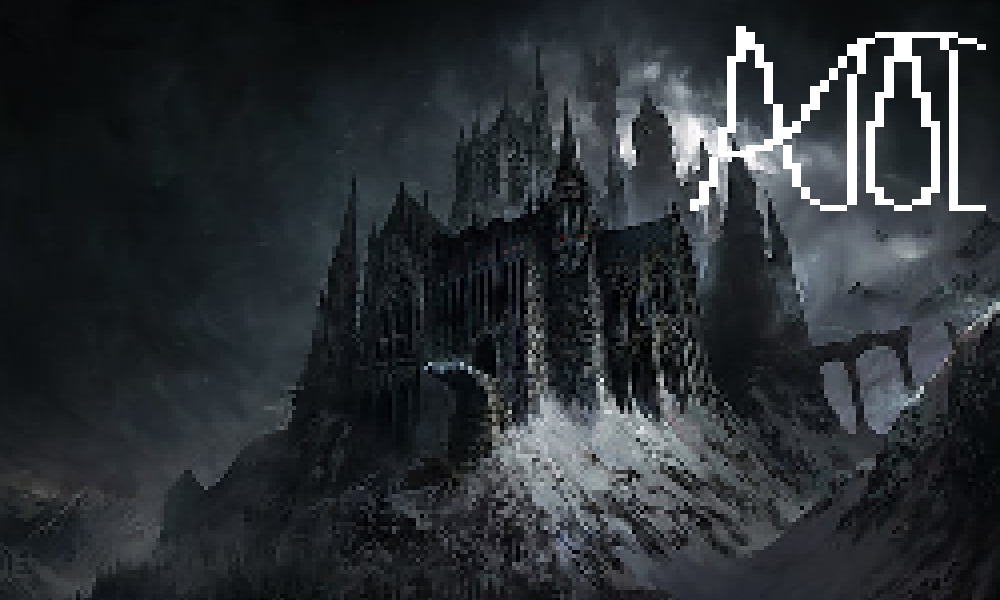
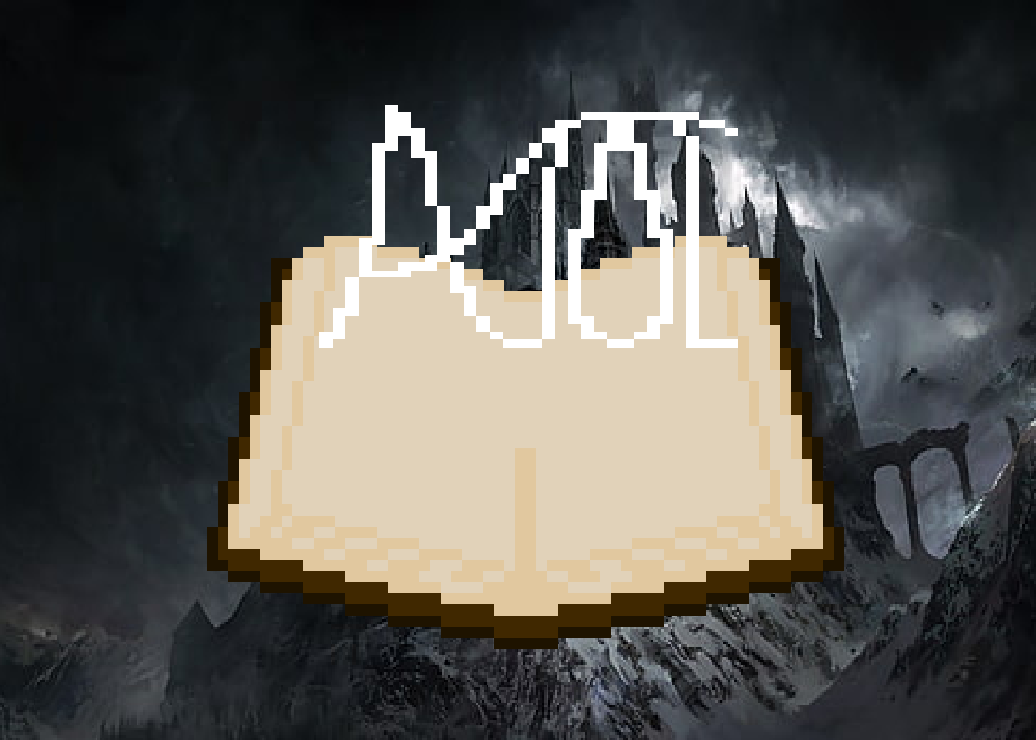
added torch particle preset

diff --git a/code/level.py b/code/level.py
@@ -28,8 +28,8 @@ class Level:
 		self.next_room_triggers = pygame.sprite.Group()  # Level Triggers sprites group
 		self.last_room_triggers = pygame.sprite.Group()  # Level Triggers sprites group
 		self.player_layer = pygame.sprite.GroupSingle()  # Player sprite group
-		self.enemy_layer = pygame.sprite.GroupSingle()  # Enemy sprite group
-		self.projectiles = pygame.sprite.GroupSingle()  # Projectile sprite group
+		self.enemy_layer = pygame.sprite.Group()  # Enemy sprite group
+		self.projectiles = pygame.sprite.Group()  # Projectile sprite group
 
 		# Terrain layout
 		terrain_layout = import_csv_layout(level_data['terrain'])  # Load Terrain layout from CSV
@@ -182,7 +182,7 @@ class Level:
 		# Handle the particles in the level
 		# Torch particles
 		for torch in self.torches.sprites():
-			self.particles.append(Particle(torch.rect.centerx, torch.rect.centery, '', 3, (255, 255, 255), 'torch'))
+			self.particles.append(Particle(torch.rect.centerx, torch.rect.centery, '', 3, (0, 255, 255), 'torch'))
 
 		# Draw and update particles
 		for particle in self.particles:
@@ -233,8 +233,6 @@ class Level:
 		
 		for sprite in self.last_room_triggers.sprites():
 			pygame.draw.rect(self.display_surface, "yellow", sprite.rect)
-
-		print(self.game.current_level)
 
 		# effects
 		self.light_handler()

diff --git a/code/saviorsystems/REDFORGE.py b/code/saviorsystems/REDFORGE.py
@@ -161,8 +161,8 @@ class Particle():
 		# Generate a random direction vector within the specified angle range
 		angle_degrees = random.uniform(start_angle_degrees, end_angle_degrees)
 		angle_radians = math.radians(angle_degrees)
-		dx = math.cos(angle_radians) * random.randint(0,3)
-		dy = math.sin(angle_radians) * random.randint(0,3)
+		dx = math.cos(angle_radians) * random.randint(0,1) 
+		dy = math.sin(angle_radians) * random.randint(0,1)
 		return dx, dy
 
 	def set_type(self) -> str:
@@ -173,6 +173,7 @@ class Particle():
 				self.timer = random.uniform(1, 3)  # Timer for the particle's lifespan
 			case _:
 				direction = 'up'  # For other types, set direction as 'right'
+				self.timer = random.uniform(1, 3)  # Timer for the particle's lifespan
 		return direction
 
 	def set_direction(self, direction:str, velocity:int):
@@ -181,6 +182,8 @@ class Particle():
 		match direction:
 			case "up":
 				self.vel.y = -velocity  # Set the upward velocity
+				if self.type == 'torch':
+					self.vel.x = random.randint(-5, 5)  # Set the upward velocity
 			
 			case "down":
 				self.vel.y = velocity  # Set the downward velocity

diff --git a/code/scenes.py b/code/scenes.py
@@ -142,12 +142,14 @@ class WorldScene(Scene):
 						self.events = False
 		""" LEVEL CHANGING """
 		# print(f"next room triggered: {self.game.level.next_room_triggered}")
-		# print(f"last room triggered: {self.game.level.last_room_triggered}")
+		# print(f"last room triggered from scenes: {self.game.level.last_room_triggered}")
 		if self.game.level.next_room_triggered:
 			self.game.current_level += 1
+			self.game.scenes = [WorldScene(self.game, levels[self.game.current_level])]
 		
 		if self.game.level.last_room_triggered:
-			self.game.current_level += 1
+			self.game.current_level -= 1
+			self.game.scenes = [WorldScene(self.game, levels[self.game.current_level])]
 
 	def draw(self):
 		self.game.screen.fill("black")

diff --git a/code/player.py b/code/player.py
@@ -85,7 +85,6 @@ class Player(Entity):
 
 	def on_screen_check(self):
 		if self.rect.x >= self.game.level.level_bottomright.x:
-			print("ok")
 			self.rect.x = self.game.level.level_bottomright.x
 		elif self.rect.x <= self.game.level.level_topleft.x:
 			self.rect.x = self.game.level.level_topleft.x

diff --git a/code/main.py b/code/main.py
@@ -37,3 +37,4 @@ if __name__ == '__main__':
 	game = Game()
 	game.scenes = [Launcher(game)]
 	game.run()
+	print(pygame.version.ver)
